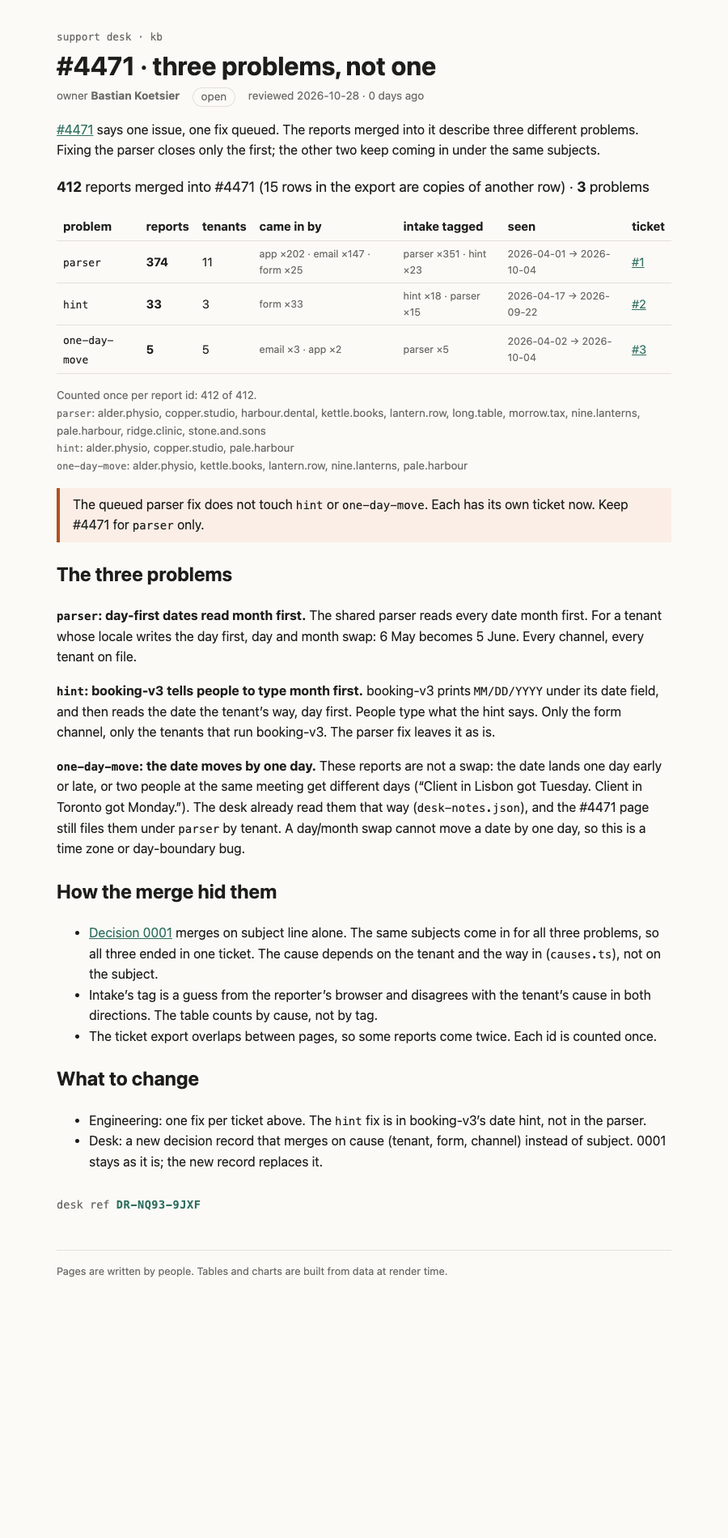
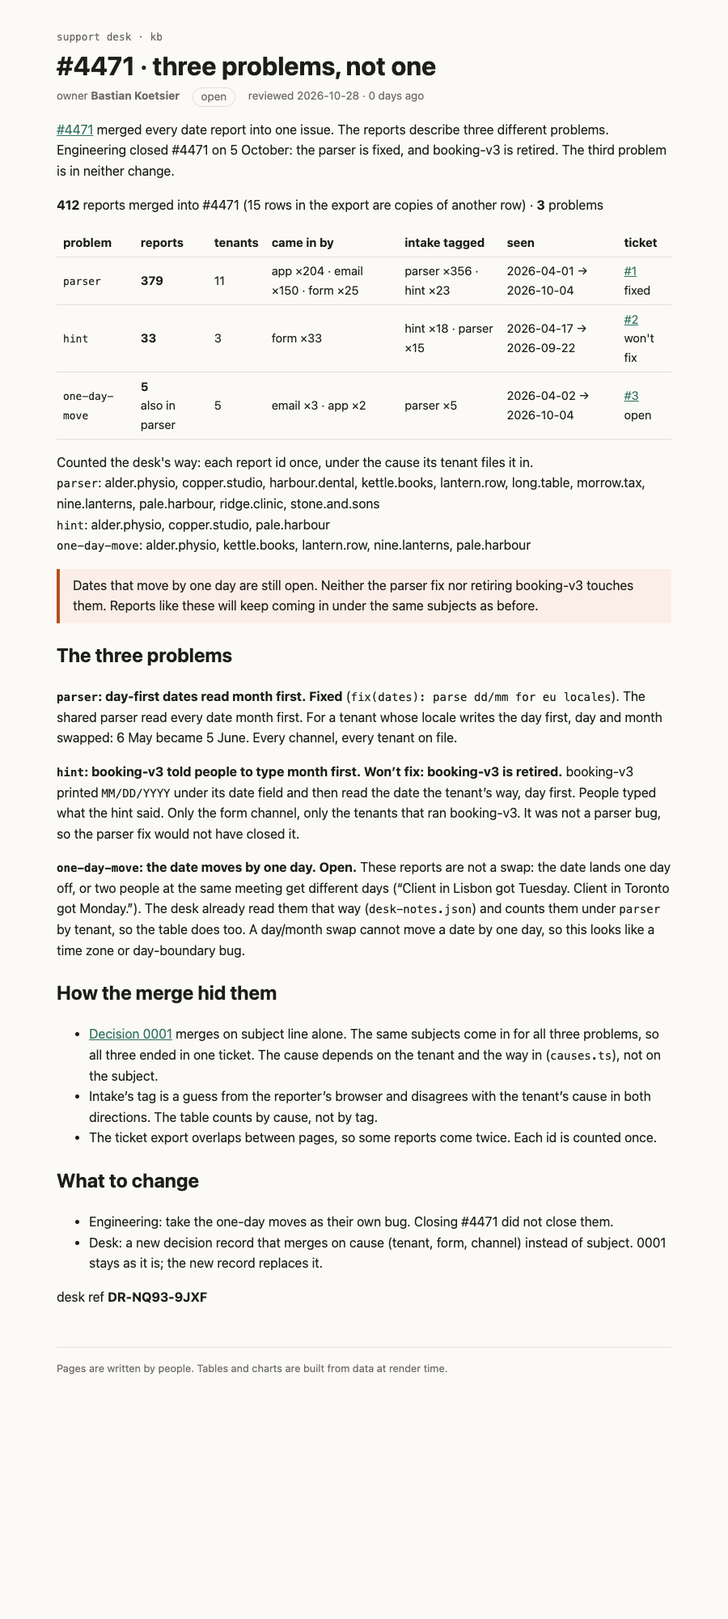
docs(kb): count #4471 the desk's way and record the engineering update
parser: fixed, hint: won't fix (booking-v3 retired), one-day-move: still open.

Changed region(s): [[0.0622, 0.0311, 0.9333, 0.8074], [0.8089, 0.3416, 0.8711, 0.3726], [0.28, 0.8384, 0.3111, 0.8695]]

diff --git a/build/kb/incidents/4471/problems/index.html b/build/kb/incidents/4471/problems/index.html
@@ -9,50 +9,51 @@
 		<link href="../../../../_app/immutable/chunks/D-GwnH41.js" rel="modulepreload">
 		<link href="../../../../_app/immutable/chunks/D2KTpw2n.js" rel="modulepreload">
 		<link href="../../../../_app/immutable/chunks/BDBbYZz3.js" rel="modulepreload">
-		<link href="../../../../_app/immutable/entry/app.DgvFK7mS.js" rel="modulepreload">
+		<link href="../../../../_app/immutable/entry/app.1n8WWbH6.js" rel="modulepreload">
 		<link href="../../../../_app/immutable/nodes/0.C83rTuV_.js" rel="modulepreload">
 		<link href="../../../../_app/immutable/chunks/DK3Fl9T5.js" rel="modulepreload">
-		<link href="../../../../_app/immutable/nodes/5.Ca00wXND.js" rel="modulepreload">
-		<link href="../../../../_app/immutable/chunks/Bg5D5yRu.js" rel="modulepreload">
+		<link href="../../../../_app/immutable/nodes/5.tGBZm8KA.js" rel="modulepreload">
+		<link href="../../../../_app/immutable/chunks/CG1_GWD-.js" rel="modulepreload">
 		<link href="../../../../_app/immutable/chunks/BcLXy0st.js" rel="modulepreload">
 		<link href="../../../../_app/immutable/chunks/CVBzP17p.js" rel="modulepreload">
 		<link href="../../../../_app/immutable/chunks/Drs7xK2k.js" rel="modulepreload">
 		<!--e2jw2j--><!----><title>#4471 · three problems, not one · support kb</title>
 		<link href="../../../../_app/immutable/assets/runbook.COyw0cbZ.css" rel="stylesheet">
 		<link href="../../../../_app/immutable/assets/Callout.AbLv9dM_.css" rel="stylesheet">
-		<link href="../../../../_app/immutable/assets/_page.Csy-CsX1.css" rel="stylesheet">
+		<link href="../../../../_app/immutable/assets/_page.Du2U8bU0.css" rel="stylesheet">
   </head>
   <body data-sveltekit-preload-data="hover">
-    <div style="display: contents"><!--[--><!--[--><!--[0--><!--[--><!--[--><!--[-1--><!--[--><div class="kb svelte-e2jw2j"><header><a class="crumb svelte-e2jw2j" href="/kb">support desk · kb</a> <h1 class="svelte-e2jw2j">#4471 · three problems, not one</h1> <p class="meta svelte-e2jw2j"><span>owner <b>Bastian Koetsier</b></span> <span class="status open svelte-e2jw2j">open</span> <span class="svelte-e2jw2j">reviewed 2026-10-28 · 0 days ago</span></p></header> <!--[-1--><!--]--> <main><p><a href="/kb/incidents/4471">#4471</a> says one issue, one fix queued. The reports merged into it describe
-three different problems. Fixing the parser closes only the first; the other two keep coming in
-under the same subjects.</p> <p class="sum svelte-1op6c6"><strong>412</strong> reports merged into #4471
-  (15 rows in the export are copies of another row) · <strong>3</strong> problems</p> <table><thead><tr><th>problem</th><th>reports</th><th>tenants</th><th>came in by</th><th>intake tagged</th><th>seen</th><th>ticket</th></tr></thead><tbody><!--[--><tr><td><code>parser</code></td><td><strong>374</strong></td><td>11</td><td class="small svelte-1op6c6">app ×202 · email ×147 · form ×25</td><td class="small svelte-1op6c6">parser ×351 · hint ×23</td><td class="small svelte-1op6c6">2026-04-01 → 2026-10-04</td><td><!--[0--><a href="https://github.com/bastiankoetsier/mega-what-it-shows/issues/1">#1</a><!--]--></td></tr><tr><td><code>hint</code></td><td><strong>33</strong></td><td>3</td><td class="small svelte-1op6c6">form ×33</td><td class="small svelte-1op6c6">hint ×18 · parser ×15</td><td class="small svelte-1op6c6">2026-04-17 → 2026-09-22</td><td><!--[0--><a href="https://github.com/bastiankoetsier/mega-what-it-shows/issues/2">#2</a><!--]--></td></tr><tr><td><code>one-day-move</code></td><td><strong>5</strong></td><td>5</td><td class="small svelte-1op6c6">email ×3 · app ×2</td><td class="small svelte-1op6c6">parser ×5</td><td class="small svelte-1op6c6">2026-04-02 → 2026-10-04</td><td><!--[0--><a href="https://github.com/bastiankoetsier/mega-what-it-shows/issues/3">#3</a><!--]--></td></tr><!--]--></tbody></table> <p class="small svelte-1op6c6">Counted once per report id: 412 of 412. <!--[--><br/><code>parser</code>: alder.physio, copper.studio, harbour.dental, kettle.books, lantern.row, long.table, morrow.tax, nine.lanterns, pale.harbour, ridge.clinic, stone.and.sons<br/><code>hint</code>: alder.physio, copper.studio, pale.harbour<br/><code>one-day-move</code>: alder.physio, kettle.books, lantern.row, nine.lanterns, pale.harbour<!--]--></p><!----> <aside class="warn svelte-17bri61"><!---->The queued parser fix does not touch <code>hint</code> or <code>one-day-move</code>. Each has its own
-ticket now. Keep #4471 for <code>parser</code> only.<!----></aside><!----> <h2>The three problems</h2> <p><strong><code>parser</code>: day-first dates read month first.</strong> The shared parser reads every date month first.
-For a tenant whose locale writes the day first, day and month swap: 6 May becomes 5 June. Every
-channel, every tenant on file.</p> <p><strong><code>hint</code>: booking-v3 tells people to type month first.</strong> booking-v3 prints <code>MM/DD/YYYY</code> under
-its date field, and then reads the date the tenant’s way, day first. People type what the hint
-says. Only the form channel, only the tenants that run booking-v3. The parser fix leaves it as is.</p> <p><strong><code>one-day-move</code>: the date moves by one day.</strong> These reports are not a swap: the date lands one
-day early or late, or two people at the same meeting get different days (“Client in Lisbon got
-Tuesday. Client in Toronto got Monday.”). The desk already read them that way
-(<code>desk-notes.json</code>), and the #4471 page still files them under <code>parser</code> by tenant. A day/month
-swap cannot move a date by one day, so this is a time zone or day-boundary bug.</p> <h2>How the merge hid them</h2> <ul><li><a href="/kb/decisions/0001-dedupe-by-subject">Decision 0001</a> merges on subject line alone. The same
+    <div style="display: contents"><!--[--><!--[--><!--[0--><!--[--><!--[--><!--[-1--><!--[--><div class="kb svelte-e2jw2j"><header><a class="crumb svelte-e2jw2j" href="/kb">support desk · kb</a> <h1 class="svelte-e2jw2j">#4471 · three problems, not one</h1> <p class="meta svelte-e2jw2j"><span>owner <b>Bastian Koetsier</b></span> <span class="status open svelte-e2jw2j">open</span> <span class="svelte-e2jw2j">reviewed 2026-10-28 · 0 days ago</span></p></header> <!--[-1--><!--]--> <main><p><a href="/kb/incidents/4471">#4471</a> merged every date report into one issue. The reports describe three
+different problems. Engineering closed #4471 on 5 October: the parser is fixed, and booking-v3 is
+retired. The third problem is in neither change.</p> <p class="sum svelte-1op6c6"><strong>412</strong> reports merged into #4471
+  (15 rows in the export are copies of another row) · <strong>3</strong> problems</p> <table><thead><tr><th>problem</th><th>reports</th><th>tenants</th><th>came in by</th><th>intake tagged</th><th>seen</th><th>ticket</th></tr></thead><tbody><!--[--><tr><td><code>parser</code></td><td><strong>379</strong><!--[-1--><!--]--></td><td>11</td><td class="small svelte-1op6c6">app ×204 · email ×150 · form ×25</td><td class="small svelte-1op6c6">parser ×356 · hint ×23</td><td class="small svelte-1op6c6">2026-04-01 → 2026-10-04</td><td><!--[0--><a href="https://github.com/bastiankoetsier/mega-what-it-shows/issues/1">#1</a><br/><span class="state svelte-1op6c6">fixed</span><!--]--></td></tr><tr><td><code>hint</code></td><td><strong>33</strong><!--[-1--><!--]--></td><td>3</td><td class="small svelte-1op6c6">form ×33</td><td class="small svelte-1op6c6">hint ×18 · parser ×15</td><td class="small svelte-1op6c6">2026-04-17 → 2026-09-22</td><td><!--[0--><a href="https://github.com/bastiankoetsier/mega-what-it-shows/issues/2">#2</a><br/><span class="state svelte-1op6c6">won't fix</span><!--]--></td></tr><tr><td><code>one-day-move</code></td><td><strong>5</strong><!--[0--><br/><span class="small svelte-1op6c6">also in parser</span><!--]--></td><td>5</td><td class="small svelte-1op6c6">email ×3 · app ×2</td><td class="small svelte-1op6c6">parser ×5</td><td class="small svelte-1op6c6">2026-04-02 → 2026-10-04</td><td><!--[0--><a href="https://github.com/bastiankoetsier/mega-what-it-shows/issues/3">#3</a><br/><span class="state svelte-1op6c6 open">open</span><!--]--></td></tr><!--]--></tbody></table> <p class="small svelte-1op6c6">Counted the desk's way: each report id once, under the cause its tenant files it in. <!--[--><br/><code>parser</code>: alder.physio, copper.studio, harbour.dental, kettle.books, lantern.row, long.table, morrow.tax, nine.lanterns, pale.harbour, ridge.clinic, stone.and.sons<br/><code>hint</code>: alder.physio, copper.studio, pale.harbour<br/><code>one-day-move</code>: alder.physio, kettle.books, lantern.row, nine.lanterns, pale.harbour<!--]--></p><!----> <aside class="warn svelte-17bri61"><!---->Dates that move by one day are still open. Neither the parser fix nor retiring booking-v3 touches
+them. Reports like these will keep coming in under the same subjects as before.<!----></aside><!----> <h2>The three problems</h2> <p><strong><code>parser</code>: day-first dates read month first. Fixed</strong> (<code>fix(dates): parse dd/mm for eu locales</code>).
+The shared parser read every date month first. For a tenant whose locale writes the day first, day
+and month swapped: 6 May became 5 June. Every channel, every tenant on file.</p> <p><strong><code>hint</code>: booking-v3 told people to type month first. Won’t fix: booking-v3 is retired.</strong> booking-v3
+printed <code>MM/DD/YYYY</code> under its date field and then read the date the tenant’s way, day first. People
+typed what the hint said. Only the form channel, only the tenants that ran booking-v3. It was not a
+parser bug, so the parser fix would not have closed it.</p> <p><strong><code>one-day-move</code>: the date moves by one day. Open.</strong> These reports are not a swap: the date lands
+one day off, or two people at the same meeting get different days (“Client in Lisbon got Tuesday.
+Client in Toronto got Monday.”). The desk already read them that way (<code>desk-notes.json</code>) and counts
+them under <code>parser</code> by tenant, so the table does too. A day/month swap cannot move a date by one
+day, so this looks like a time zone or day-boundary bug.</p> <h2>How the merge hid them</h2> <ul><li><a href="/kb/decisions/0001-dedupe-by-subject">Decision 0001</a> merges on subject line alone. The same
 subjects come in for all three problems, so all three ended in one ticket. The cause depends on
 the tenant and the way in (<code>causes.ts</code>), not on the subject.</li> <li>Intake’s tag is a guess from the reporter’s browser and disagrees with the tenant’s cause in
-both directions. The table counts by cause, not by tag.</li> <li>The ticket export overlaps between pages, so some reports come twice. Each id is counted once.</li></ul> <h2>What to change</h2> <ul><li>Engineering: one fix per ticket above. The <code>hint</code> fix is in booking-v3’s date hint, not in the parser.</li> <li>Desk: a new decision record that merges on cause (tenant, form, channel) instead of subject.
+both directions. The table counts by cause, not by tag.</li> <li>The ticket export overlaps between pages, so some reports come twice. Each id is counted once.</li></ul> <h2>What to change</h2> <ul><li>Engineering: take the one-day moves as their own bug. Closing #4471 did not close them.</li> <li>Desk: a new decision record that merges on cause (tenant, form, channel) instead of subject.
 0001 stays as it is; the new record replaces it.</li></ul> <!--[0--><p class="stamp svelte-1280m42">desk ref <b class="svelte-1280m42">DR-NQ93-9JXF</b></p><!--]--><!----><!----></main> <footer class="svelte-e2jw2j">Pages are written by people. Tables and charts are built from data at render time.</footer></div><!--]--><!--]--><!--]--><!----><!--]--><!--]--><!--]--><!----> <!--[-1--><!--]--><!--]-->
 			
 			<script>
 				{
-					__sveltekit_1mmeaop = {
+					__sveltekit_jge703 = {
 						base: new URL("../../../..", location).pathname.slice(0, -1),
-						version: "1793222209595"
+						version: "1793222450238"
 					};
 
 					const element = document.currentScript.parentElement;
 
 					import("../../../../_app/immutable/entry/start.Bbh9Z5Es.js").then(async (kit) => {
-						kit.init(__sveltekit_1mmeaop);
-						const app = await import("../../../../_app/immutable/entry/app.DgvFK7mS.js");
+						kit.init(__sveltekit_jge703);
+						const app = await import("../../../../_app/immutable/entry/app.1n8WWbH6.js");
 						kit.start(app, element, {
 							node_ids: [0, 5],
 							data: [null,null],

diff --git a/build/_app/immutable/chunks/CG1_GWD-.js b/build/_app/immutable/chunks/CG1_GWD-.js
@@ -1,0 +1,18 @@
+import{t as e}from"./DK3Fl9T5.js";import{E as t,F as n,H as r,I as i,K as a,L as o,N as s,O as c,R as l,S as u,T as d,U as f,W as p,_ as m,c as h,d as g,h as _,k as v,n as y,q as b,r as x,t as S,w as C}from"./D2KTpw2n.js";import{t as w}from"./BcLXy0st.js";import{n as T,t as E}from"./CVBzP17p.js";import{a as D,l as O,r as k,t as A}from"./Drs7xK2k.js";var j=e=>e.reduce((e,t)=>({...e,[t]:(e[t]??0)+1}),{});function M(e,t,n=[]){let r=t.map(e=>e.receivedAt.slice(0,10)).sort();return{problem:e,reports:t,tenants:[...new Set(t.map(e=>e.tenant))].sort(),channels:j(t.map(e=>e.channel)),taggedAs:j(t.map(e=>e.meta.intakeTag)),firstSeen:r[0],lastSeen:r[r.length-1],alsoIn:n}}function N(e,t,n){let r=D(e,t),i=r.map(e=>M(e.cause,e.reports)),a=e.filter(e=>n.includes(e.id));if(a.length){let e=r.filter(e=>e.reports.some(e=>n.includes(e.id))).map(e=>e.cause);i.push(M(`one-day-move`,a,e))}return i}var P=t(`<br/><span class="small svelte-1op6c6"> </span>`,1),F=t(`<a> </a><br/><span> </span>`,1),I=t(`<span class="none svelte-1op6c6">none yet</span>`),L=t(`<tr><td><code> </code></td><td><strong> </strong><!></td><td> </td><td class="small svelte-1op6c6"> </td><td class="small svelte-1op6c6"> </td><td class="small svelte-1op6c6"> </td><td><!></td></tr>`),R=t(`<br/><code> </code> `,1),z=t(`<p class="sum svelte-1op6c6"><strong> </strong> <strong> </strong> </p> <table><thead><tr><th>problem</th><th>reports</th><th>tenants</th><th>came in by</th><th>intake tagged</th><th>seen</th><th>ticket</th></tr></thead><tbody></tbody></table> <p class="small svelte-1op6c6">Counted the desk's way: each report id once, under the cause its tenant files it in. <!></p>`,1);function B(e,t){p(t,!0);let a=y(t,`issues`,19,()=>({})),c=r(()=>T.filter(e=>e.mergedInto===t.ticket)),d=r(()=>O(v(c))),x=r(()=>N(v(d),k,E.oneDayMove)),S=e=>Object.entries(e).sort((e,t)=>t[1]-e[1]).map(([e,t])=>`${e} ×${t}`).join(` · `),w=e=>`#${e.split(`/`).pop()}`;var D=z(),A=i(D),j=n(A),M=o(j,!0),B=l(j),V=l(B),H=o(V,!0),U=l(V);b(A);var W=l(A,2),G=l(n(W));_(G,21,()=>v(x),e=>e.problem,(e,t)=>{let c=r(()=>a()[v(t).problem]);var d=L(),f=n(d),p=n(f),_=o(p,!0);b(f);var y=l(f),x=n(y),T=o(x,!0),E=l(x),D=e=>{var n=P(),r=l(i(n)),a=o(r);s(e=>u(a,`also in ${e??``}`),[()=>v(t).alsoIn.join(`, `)]),C(e,n)};m(E,e=>{v(t).alsoIn.length&&e(D)}),b(y);var O=l(y),k=o(O,!0),A=l(O),j=o(A,!0),M=l(A),N=o(M,!0),R=l(M),z=o(R),B=l(R),V=n(B),H=e=>{var t=F(),n=i(t),r=o(n,!0),a=l(n,2);let d;var f=o(a,!0);s(e=>{h(n,`href`,v(c).url),u(r,e),d=g(a,1,`state svelte-1op6c6`,null,d,{open:v(c).state===`open`}),u(f,v(c).state)},[()=>w(v(c).url)]),C(e,t)},U=e=>{var t=I();C(e,t)};m(V,e=>{v(c)?e(H):e(U,-1)}),b(B),b(d),s((e,n)=>{u(_,v(t).problem),u(T,v(t).reports.length),u(k,v(t).tenants.length),u(j,e),u(N,n),u(z,`${v(t).firstSeen??``} → ${v(t).lastSeen??``}`)},[()=>S(v(t).channels),()=>S(v(t).taggedAs)]),C(e,d)}),b(G),b(W);var K=l(W,2),q=l(n(K));_(q,17,()=>v(x),e=>e.problem,(e,t)=>{var n=R(),r=l(i(n)),a=o(r,!0),c=l(r);s(e=>{u(a,v(t).problem),u(c,`: ${e??``}`)},[()=>v(t).tenants.join(`, `)]),C(e,n)}),b(K),s(()=>{u(M,v(d).length),u(B,` reports merged into #${t.ticket??``}
+  (${v(c).length-v(d).length} rows in the export are copies of another row) · `),u(H,v(x).length),u(U,` ${v(x).length===1?`problem`:`problems`}`)}),C(e,D),f()}var V=`0123456789ABCDEFGHJKMNPQRSTVWXYZ`;function H(e,t){let n=t>>>0;for(let t=0;t<e.length;t++)n^=e.charCodeAt(t),n=Math.imul(n,16777619)>>>0;return n}function U(e){let t=e.trim(),n=H(t,2166136261),r=H(t,2654435769),i=BigInt(n)<<8n|BigInt(r&255),a=``;for(let e=0;e<8;e++)a=V[Number(i&31n)]+a,i>>=5n;return`DR-${a.slice(0,4)}-${a.slice(4)}`}var W=t(`<p class="stamp svelte-1280m42">desk ref <b class="svelte-1280m42"> </b></p>`),G=t(`<p class="stamp missing svelte-1280m42">no desk ref: this page isn't signed (no <code>signature</code> in its frontmatter)</p>`);function K(e,t){p(t,!0);let a=r(()=>t.signature?U(t.signature):null);var c=d(),h=i(c),g=e=>{var t=W(),r=l(n(t)),i=o(r,!0);b(t),s(()=>u(i,v(a))),C(e,t)},_=e=>{var t=G();C(e,t)};m(h,e=>{v(a)?e(g):e(_,-1)}),C(e,c),f()}var q=e({default:()=>$,metadata:()=>J}),J={layout:`runbook`,title:`#4471 · three problems, not one`,owner:`Bastian Koetsier`,status:`open`,reviewed:`2026-10-28T00:00:00.000Z`,signature:`Bastian Koetsier`},{layout:Y,title:X,owner:ee,status:te,reviewed:ne,signature:Z}=J,Q=t(`<p><a href="/kb/incidents/4471">#4471</a> merged every date report into one issue. The reports describe three
+different problems. Engineering closed #4471 on 5 October: the parser is fixed, and booking-v3 is
+retired. The third problem is in neither change.</p> <!> <!> <h2>The three problems</h2> <p><strong><code>parser</code>: day-first dates read month first. Fixed</strong> (<code>fix(dates): parse dd/mm for eu locales</code>).
+The shared parser read every date month first. For a tenant whose locale writes the day first, day
+and month swapped: 6 May became 5 June. Every channel, every tenant on file.</p> <p><strong><code>hint</code>: booking-v3 told people to type month first. Won’t fix: booking-v3 is retired.</strong> booking-v3
+printed <code>MM/DD/YYYY</code> under its date field and then read the date the tenant’s way, day first. People
+typed what the hint said. Only the form channel, only the tenants that ran booking-v3. It was not a
+parser bug, so the parser fix would not have closed it.</p> <p><strong><code>one-day-move</code>: the date moves by one day. Open.</strong> These reports are not a swap: the date lands
+one day off, or two people at the same meeting get different days (“Client in Lisbon got Tuesday.
+Client in Toronto got Monday.”). The desk already read them that way (<code>desk-notes.json</code>) and counts
+them under <code>parser</code> by tenant, so the table does too. A day/month swap cannot move a date by one
+day, so this looks like a time zone or day-boundary bug.</p> <h2>How the merge hid them</h2> <ul><li><a href="/kb/decisions/0001-dedupe-by-subject">Decision 0001</a> merges on subject line alone. The same
+subjects come in for all three problems, so all three ended in one ticket. The cause depends on
+the tenant and the way in (<code>causes.ts</code>), not on the subject.</li> <li>Intake’s tag is a guess from the reporter’s browser and disagrees with the tenant’s cause in
+both directions. The table counts by cause, not by tag.</li> <li>The ticket export overlaps between pages, so some reports come twice. Each id is counted once.</li></ul> <h2>What to change</h2> <ul><li>Engineering: take the one-day moves as their own bug. Closing #4471 did not close them.</li> <li>Desk: a new decision record that merges on cause (tenant, form, channel) instead of subject.
+0001 stays as it is; the new record replaces it.</li></ul> <!>`,1);function $(e,t){let n=S(t,[`children`,`$$slots`,`$$events`,`$$legacy`]),r=`https://github.com/bastiankoetsier/mega-what-it-shows/issues`,o={parser:{url:`${r}/1`,state:`fixed`},hint:{url:`${r}/2`,state:`won't fix`},"one-day-move":{url:`${r}/3`,state:`open`}};w(e,x(()=>n,()=>J,{children:(e,t)=>{var n=Q(),r=l(i(n),2);B(r,{ticket:4471,get issues(){return o}});var s=l(r,2);A(s,{kind:`warn`,children:(e,t)=>{a();var n=c(`Dates that move by one day are still open. Neither the parser fix nor retiring booking-v3 touches
+them. Reports like these will keep coming in under the same subjects as before.`);C(e,n)},$$slots:{default:!0}}),K(l(s,18),{get signature(){return Z}}),C(e,n)},$$slots:{default:!0}}))}export{$ as n,q as t};

diff --git a/src/lib/kb/problems.ts b/src/lib/kb/problems.ts
@@ -1,14 +1,10 @@
-// The problems inside a merged ticket. Each report gets its cause (causes.ts), except the reports
-// the desk read as a one-day move (desk-notes.json): a month/day swap never moves a date by one day,
-// so those are a problem of their own, whatever their tenant.
-import { causeOf, type Cause, type Report, type Tenant } from '#lib/kb/causes';
+// The problems inside a merged ticket, counted the way the desk counts: by cause (causes.ts), each
+// report where its tenant files it. The reports the desk read as a one-day move (desk-notes.json)
+// are a problem of their own too: a month/day swap never moves a date by one day. They stay counted
+// under their cause as well, so the rows can add up to more than the ticket.
+import { groupByCause, type Report, type Tenant } from '#lib/kb/causes';
 
-export type Problem = Cause | 'one-day-move' | 'unplaced';
-
-export function problemOf(r: Report, t: Tenant | undefined, oneDayMove: readonly string[]): Problem {
-  if (oneDayMove.includes(r.id)) return 'one-day-move';
-  return causeOf(r, t) ?? 'unplaced';
-}
+export type Problem = 'parser' | 'hint' | 'unplaced' | 'one-day-move';
 
 export type ProblemGroup = {
   problem: Problem;
@@ -19,32 +15,37 @@ export type ProblemGroup = {
   taggedAs: Record<string, number>;
   firstSeen: string;
   lastSeen: string;
+  // Set on one-day-move: the cause these reports are also counted under.
+  alsoIn: Problem[];
 };
 
 const tally = (xs: string[]) => xs.reduce<Record<string, number>>((n, x) => ({ ...n, [x]: (n[x] ?? 0) + 1 }), {});
+
+function group(problem: Problem, rs: Report[], alsoIn: Problem[] = []): ProblemGroup {
+  const days = rs.map((r) => r.receivedAt.slice(0, 10)).sort();
+  return {
+    problem,
+    reports: rs,
+    tenants: [...new Set(rs.map((r) => r.tenant))].sort(),
+    channels: tally(rs.map((r) => r.channel)),
+    taggedAs: tally(rs.map((r) => r.meta.intakeTag)),
+    firstSeen: days[0],
+    lastSeen: days[days.length - 1],
+    alsoIn,
+  };
+}
 
 export function groupByProblem(
   reports: Report[],
   tenantOf: (r: Report) => Tenant | undefined,
   oneDayMove: readonly string[],
 ): ProblemGroup[] {
-  const byProblem = new Map<Problem, Report[]>();
-  for (const r of reports) {
-    const p = problemOf(r, tenantOf(r), oneDayMove);
-    byProblem.set(p, [...(byProblem.get(p) ?? []), r]);
+  const causes = groupByCause(reports, tenantOf);
+  const groups = causes.map((g) => group(g.cause, g.reports));
+  const moved = reports.filter((r) => oneDayMove.includes(r.id));
+  if (moved.length) {
+    const alsoIn = causes.filter((g) => g.reports.some((r) => oneDayMove.includes(r.id))).map((g) => g.cause);
+    groups.push(group('one-day-move', moved, alsoIn));
   }
-  return [...byProblem.entries()]
-    .map(([problem, rs]) => {
-      const days = rs.map((r) => r.receivedAt.slice(0, 10)).sort();
-      return {
-        problem,
-        reports: rs,
-        tenants: [...new Set(rs.map((r) => r.tenant))].sort(),
-        channels: tally(rs.map((r) => r.channel)),
-        taggedAs: tally(rs.map((r) => r.meta.intakeTag)),
-        firstSeen: days[0],
-        lastSeen: days[days.length - 1],
-      };
-    })
-    .sort((a, b) => b.reports.length - a.reports.length);
+  return groups;
 }

diff --git a/build/kb/index.html b/build/kb/index.html
@@ -9,22 +9,22 @@
 		<link href="../_app/immutable/chunks/D-GwnH41.js" rel="modulepreload">
 		<link href="../_app/immutable/chunks/D2KTpw2n.js" rel="modulepreload">
 		<link href="../_app/immutable/chunks/BDBbYZz3.js" rel="modulepreload">
-		<link href="../_app/immutable/entry/app.DgvFK7mS.js" rel="modulepreload">
+		<link href="../_app/immutable/entry/app.1n8WWbH6.js" rel="modulepreload">
 		<link href="../_app/immutable/nodes/0.C83rTuV_.js" rel="modulepreload">
 		<link href="../_app/immutable/chunks/DK3Fl9T5.js" rel="modulepreload">
-		<link href="../_app/immutable/nodes/2.BrFz4UqA.js" rel="modulepreload">
+		<link href="../_app/immutable/nodes/2.BzJjrh8H.js" rel="modulepreload">
 		<link href="../_app/immutable/chunks/BcLXy0st.js" rel="modulepreload">
 		<link href="../_app/immutable/chunks/BJ1p8o6g.js" rel="modulepreload">
 		<link href="../_app/immutable/chunks/DalnTEzF.js" rel="modulepreload">
 		<link href="../_app/immutable/chunks/CVBzP17p.js" rel="modulepreload">
 		<link href="../_app/immutable/chunks/Drs7xK2k.js" rel="modulepreload">
-		<link href="../_app/immutable/chunks/Bg5D5yRu.js" rel="modulepreload">
+		<link href="../_app/immutable/chunks/CG1_GWD-.js" rel="modulepreload">
 		<link href="../_app/immutable/chunks/B1CynxdX.js" rel="modulepreload">
 		<!--e2jw2j--><!----><title>Support knowledge base · support kb</title>
 		<link href="../_app/immutable/assets/runbook.COyw0cbZ.css" rel="stylesheet">
 		<link href="../_app/immutable/assets/Callout.AbLv9dM_.css" rel="stylesheet">
 		<link href="../_app/immutable/assets/_page.D56XP2ro.css" rel="stylesheet">
-		<link href="../_app/immutable/assets/_page.Csy-CsX1.css" rel="stylesheet">
+		<link href="../_app/immutable/assets/_page.Du2U8bU0.css" rel="stylesheet">
 		<link href="../_app/immutable/assets/_page.DO6Yid7X.css" rel="stylesheet">
 		<link href="../_app/immutable/assets/2.Bt0MwIZg.css" rel="stylesheet">
   </head>
@@ -34,16 +34,16 @@ computed by a component, not typed into a paragraph.</p><!----></main> <footer c
 			
 			<script>
 				{
-					__sveltekit_1mmeaop = {
+					__sveltekit_jge703 = {
 						base: new URL("..", location).pathname.slice(0, -1),
-						version: "1793222209595"
+						version: "1793222450238"
 					};
 
 					const element = document.currentScript.parentElement;
 
 					import("../_app/immutable/entry/start.Bbh9Z5Es.js").then(async (kit) => {
-						kit.init(__sveltekit_1mmeaop);
-						const app = await import("../_app/immutable/entry/app.DgvFK7mS.js");
+						kit.init(__sveltekit_jge703);
+						const app = await import("../_app/immutable/entry/app.1n8WWbH6.js");
 						kit.start(app, element, {
 							node_ids: [0, 2],
 							data: [null,null],

diff --git a/src/lib/kb/ProblemTable.svelte b/src/lib/kb/ProblemTable.svelte
@@ -5,13 +5,13 @@
   import { tenantOf } from '#lib/kb/locales';
   import { groupByProblem, type Problem } from '#lib/kb/problems';
 
-  // `issues`: the engineering ticket filed for each problem, problem → URL.
-  let { ticket, issues = {} }: { ticket: number; issues?: Partial<Record<Problem, string>> } = $props();
+  // `issues`: the engineering ticket filed for each problem, problem → { url, state }.
+  type Issue = { url: string; state: string };
+  let { ticket, issues = {} }: { ticket: number; issues?: Partial<Record<Problem, Issue>> } = $props();
 
   const rows = $derived((reports as Report[]).filter((r) => r.mergedInto === ticket));
   const merged = $derived(uniqueById(rows));
   const groups = $derived(groupByProblem(merged, tenantOf, notes.oneDayMove));
-  const counted = $derived(groups.reduce((n, g) => n + g.reports.length, 0));
   const list = (n: Record<string, number>) =>
     Object.entries(n)
       .sort((a, b) => b[1] - a[1])
@@ -32,26 +32,31 @@
   </thead>
   <tbody>
     {#each groups as g (g.problem)}
+      {@const issue = issues[g.problem]}
       <tr>
         <td><code>{g.problem}</code></td>
-        <td><strong>{g.reports.length}</strong></td>
+        <td><strong>{g.reports.length}</strong>{#if g.alsoIn.length}<br /><span class="small">also in {g.alsoIn.join(', ')}</span>{/if}</td>
         <td>{g.tenants.length}</td>
         <td class="small">{list(g.channels)}</td>
         <td class="small">{list(g.taggedAs)}</td>
         <td class="small">{g.firstSeen} → {g.lastSeen}</td>
-        <td>{#if issues[g.problem]}<a href={issues[g.problem]}>{issueNo(issues[g.problem]!)}</a>{:else}<span class="none">none yet</span>{/if}</td>
+        <td>
+          {#if issue}<a href={issue.url}>{issueNo(issue.url)}</a><br /><span class="state" class:open={issue.state === 'open'}>{issue.state}</span>
+          {:else}<span class="none">none yet</span>{/if}
+        </td>
       </tr>
     {/each}
   </tbody>
 </table>
 
 <p class="small">
-  Counted once per report id: {counted} of {merged.length}.
+  Counted the desk's way: each report id once, under the cause its tenant files it in.
   {#each groups as g (g.problem)}<br /><code>{g.problem}</code>: {g.tenants.join(', ')}{/each}
 </p>
 
 <style>
   .sum { font-size: 1.1rem; }
   .small { color: var(--muted); font-size: 0.85em; }
-  .none { color: var(--warn); font-weight: 600; }
+  .state { font-size: 0.85em; color: var(--muted); }
+  .state.open, .none { color: var(--warn); font-weight: 600; }
 </style>

diff --git a/build/_app/immutable/nodes/2.BzJjrh8H.js b/build/_app/immutable/nodes/2.BzJjrh8H.js
@@ -1,0 +1,2 @@
+import{E as e,F as t,I as n,K as r,L as i,N as a,R as o,S as s,U as c,W as l,c as u,d,h as f,i as p,k as m,q as h,r as g,t as _,w as v}from"../chunks/D2KTpw2n.js";import{n as y,r as b,t as x}from"../chunks/BcLXy0st.js";import{t as S}from"../chunks/BJ1p8o6g.js";import{t as C}from"../chunks/DalnTEzF.js";import{t as w}from"../chunks/CG1_GWD-.js";import{t as T}from"../chunks/B1CynxdX.js";var E=e(`<tr><td><a> </a></td><td> </td><td> </td><td> </td></tr>`),D=e(`<table><thead><tr><th>page</th><th>owner</th><th>status</th><th>reviewed</th></tr></thead><tbody></tbody></table>`);function O(e,n){l(n,!1);let r=Object.entries(Object.assign({"/src/routes/kb/decisions/0001-dedupe-by-subject/+page.svx":S,"/src/routes/kb/incidents/4471/+page.svx":C,"/src/routes/kb/incidents/4471/problems/+page.svx":w,"/src/routes/kb/triage/dedupe/+page.svx":T})).map(([e,t])=>({href:e.replace(`/src/routes`,``).replace(`/+page.svx`,``),...t.metadata})).sort((e,t)=>e.href.localeCompare(t.href));p();var g=D(),_=o(t(g));f(_,5,()=>r,e=>e.href,(e,n)=>{var r=E(),c=t(r),l=t(c),f=i(l,!0);h(c);var p=o(c),g=i(p,!0),_=o(p),x=i(_,!0),S=o(_);let C;var w=i(S,!0);h(r),a((e,t)=>{u(l,`href`,m(n).href),s(f,m(n).title),s(g,m(n).owner),s(x,m(n).status),C=d(S,1,`svelte-tbc1ha`,null,C,{stale:e}),s(w,t)},[()=>y(m(n).reviewed)>180,()=>b(m(n).reviewed)]),v(e,r)}),h(_),h(g),v(e,g),c()}var k={layout:`runbook`,title:`Support knowledge base`,owner:`support desk`,status:`living`,reviewed:`2026-09-28T00:00:00.000Z`},{layout:A,title:j,owner:M,status:N,reviewed:P}=k,F=e(`<p>What the support desk knows, kept next to the code that knows it. One desk, every product: <code>sched-prod</code> (calendar invites for about 300k people) and the rest. When something breaks, the reports land here first.</p> <p>Start with <a href="/kb/triage/dedupe">triage</a> if you are new on the desk.</p> <h2>Pages</h2> <!> <h2>Writing a page</h2> <p>Keep the words here and the logic in <code>src/lib</code>. A number that can be computed should be
+computed by a component, not typed into a paragraph.</p>`,1);function I(e,t){let i=_(t,[`children`,`$$slots`,`$$events`,`$$legacy`]);x(e,g(()=>i,()=>k,{children:(e,t)=>{var i=F();O(o(n(i),6),{}),r(4),v(e,i)},$$slots:{default:!0}}))}export{I as component};

diff --git a/build/_app/immutable/entry/app.1n8WWbH6.js b/build/_app/immutable/entry/app.1n8WWbH6.js
@@ -1,0 +1,2 @@
+const __vite__mapDeps=(i,m=__vite__mapDeps,d=(m.f||(m.f=["../nodes/0.C83rTuV_.js","../chunks/DK3Fl9T5.js","../chunks/D2KTpw2n.js","../nodes/1.BHRZFt3u.js","../chunks/BDBbYZz3.js","./payload.DSmR2FwN.js","../nodes/2.BzJjrh8H.js","../chunks/BcLXy0st.js","../assets/runbook.COyw0cbZ.css","../chunks/BJ1p8o6g.js","../chunks/DalnTEzF.js","../chunks/CVBzP17p.js","../chunks/Drs7xK2k.js","../assets/Callout.AbLv9dM_.css","../assets/_page.D56XP2ro.css","../chunks/CG1_GWD-.js","../assets/_page.Du2U8bU0.css","../chunks/B1CynxdX.js","../assets/_page.DO6Yid7X.css","../assets/2.Bt0MwIZg.css","../nodes/3.BzPjfzl3.js","../nodes/4.DdzhXbJj.js","../nodes/5.tGBZm8KA.js","../nodes/6.Cipt9EhL.js"])))=>i.map(i=>d[i]);
+import{t as e}from"../chunks/CRzLMJPS.js";var t={},n=[()=>e(()=>import(`../nodes/0.C83rTuV_.js`),__vite__mapDeps([0,1,2]),import.meta.url),()=>e(()=>import(`../nodes/1.BHRZFt3u.js`),__vite__mapDeps([3,2,4,5]),import.meta.url),()=>e(()=>import(`../nodes/2.BzJjrh8H.js`),__vite__mapDeps([6,2,7,8,9,1,10,11,12,13,14,15,16,17,18,19]),import.meta.url),()=>e(()=>import(`../nodes/3.BzPjfzl3.js`),__vite__mapDeps([20,9,1,2,7,8]),import.meta.url),()=>e(()=>import(`../nodes/4.DdzhXbJj.js`),__vite__mapDeps([21,10,1,2,7,8,11,12,13,14]),import.meta.url),()=>e(()=>import(`../nodes/5.tGBZm8KA.js`),__vite__mapDeps([22,15,1,2,7,8,11,12,13,16]),import.meta.url),()=>e(()=>import(`../nodes/6.Cipt9EhL.js`),__vite__mapDeps([23,17,1,2,7,8,12,13,18]),import.meta.url)],r=[],i={"/kb":[2],"/kb/decisions/0001-dedupe-by-subject":[3],"/kb/incidents/4471":[4],"/kb/incidents/4471/problems":[5],"/kb/triage/dedupe":[6]},a={handleError:(({kind:e,error:t})=>{e===`unknown`&&console.error(t)}),reroute:(()=>{}),transport:{}},o=Object.fromEntries(Object.entries(a.transport).map(([e,t])=>[e,t.decode])),s=Object.fromEntries(Object.entries(a.transport).map(([e,t])=>[e,t.encode])),c=!1,l=(e,t)=>o[e](t),u=()=>e(()=>import(`../chunks/Bjy-W4x2.js`).then(e=>e.default),[],import.meta.url);export{l as decode,o as decoders,i as dictionary,s as encoders,u as get_error_template,c as hash,a as hooks,t as matchers,n as nodes,r as server_loads};

diff --git a/build/kb/decisions/0001-dedupe-by-subject/index.html b/build/kb/decisions/0001-dedupe-by-subject/index.html
@@ -9,7 +9,7 @@
 		<link href="../../../_app/immutable/chunks/D-GwnH41.js" rel="modulepreload">
 		<link href="../../../_app/immutable/chunks/D2KTpw2n.js" rel="modulepreload">
 		<link href="../../../_app/immutable/chunks/BDBbYZz3.js" rel="modulepreload">
-		<link href="../../../_app/immutable/entry/app.DgvFK7mS.js" rel="modulepreload">
+		<link href="../../../_app/immutable/entry/app.1n8WWbH6.js" rel="modulepreload">
 		<link href="../../../_app/immutable/nodes/0.C83rTuV_.js" rel="modulepreload">
 		<link href="../../../_app/immutable/chunks/DK3Fl9T5.js" rel="modulepreload">
 		<link href="../../../_app/immutable/nodes/3.BzPjfzl3.js" rel="modulepreload">
@@ -26,16 +26,16 @@ engineering merges them later.</li></ul><!----></main> <footer class="svelte-e2j
 			
 			<script>
 				{
-					__sveltekit_1mmeaop = {
+					__sveltekit_jge703 = {
 						base: new URL("../../..", location).pathname.slice(0, -1),
-						version: "1793222209595"
+						version: "1793222450238"
 					};
 
 					const element = document.currentScript.parentElement;
 
 					import("../../../_app/immutable/entry/start.Bbh9Z5Es.js").then(async (kit) => {
-						kit.init(__sveltekit_1mmeaop);
-						const app = await import("../../../_app/immutable/entry/app.DgvFK7mS.js");
+						kit.init(__sveltekit_jge703);
+						const app = await import("../../../_app/immutable/entry/app.1n8WWbH6.js");
 						kit.start(app, element, {
 							node_ids: [0, 3],
 							data: [null,null],

diff --git a/build/kb/incidents/4471/index.html b/build/kb/incidents/4471/index.html
@@ -9,7 +9,7 @@
 		<link href="../../../_app/immutable/chunks/D-GwnH41.js" rel="modulepreload">
 		<link href="../../../_app/immutable/chunks/D2KTpw2n.js" rel="modulepreload">
 		<link href="../../../_app/immutable/chunks/BDBbYZz3.js" rel="modulepreload">
-		<link href="../../../_app/immutable/entry/app.DgvFK7mS.js" rel="modulepreload">
+		<link href="../../../_app/immutable/entry/app.1n8WWbH6.js" rel="modulepreload">
 		<link href="../../../_app/immutable/nodes/0.C83rTuV_.js" rel="modulepreload">
 		<link href="../../../_app/immutable/chunks/DK3Fl9T5.js" rel="modulepreload">
 		<link href="../../../_app/immutable/nodes/4.DdzhXbJj.js" rel="modulepreload">
@@ -29,16 +29,16 @@ first. The fix is queued.</p> <aside class="note svelte-17bri61"><!---->Known. O
 			
 			<script>
 				{
-					__sveltekit_1mmeaop = {
+					__sveltekit_jge703 = {
 						base: new URL("../../..", location).pathname.slice(0, -1),
-						version: "1793222209595"
+						version: "1793222450238"
 					};
 
 					const element = document.currentScript.parentElement;
 
 					import("../../../_app/immutable/entry/start.Bbh9Z5Es.js").then(async (kit) => {
-						kit.init(__sveltekit_1mmeaop);
-						const app = await import("../../../_app/immutable/entry/app.DgvFK7mS.js");
+						kit.init(__sveltekit_jge703);
+						const app = await import("../../../_app/immutable/entry/app.1n8WWbH6.js");
 						kit.start(app, element, {
 							node_ids: [0, 4],
 							data: [null,null],

diff --git a/build/kb/triage/dedupe/index.html b/build/kb/triage/dedupe/index.html
@@ -9,7 +9,7 @@
 		<link href="../../../_app/immutable/chunks/D-GwnH41.js" rel="modulepreload">
 		<link href="../../../_app/immutable/chunks/D2KTpw2n.js" rel="modulepreload">
 		<link href="../../../_app/immutable/chunks/BDBbYZz3.js" rel="modulepreload">
-		<link href="../../../_app/immutable/entry/app.DgvFK7mS.js" rel="modulepreload">
+		<link href="../../../_app/immutable/entry/app.1n8WWbH6.js" rel="modulepreload">
 		<link href="../../../_app/immutable/nodes/0.C83rTuV_.js" rel="modulepreload">
 		<link href="../../../_app/immutable/chunks/DK3Fl9T5.js" rel="modulepreload">
 		<link href="../../../_app/immutable/nodes/6.Cipt9EhL.js" rel="modulepreload">
@@ -29,16 +29,16 @@ anything else.<!----></aside><!----> <h2>Try it</h2> <div class="try svelte-gq0h
 			
 			<script>
 				{
-					__sveltekit_1mmeaop = {
+					__sveltekit_jge703 = {
 						base: new URL("../../..", location).pathname.slice(0, -1),
-						version: "1793222209595"
+						version: "1793222450238"
 					};
 
 					const element = document.currentScript.parentElement;
 
 					import("../../../_app/immutable/entry/start.Bbh9Z5Es.js").then(async (kit) => {
-						kit.init(__sveltekit_1mmeaop);
-						const app = await import("../../../_app/immutable/entry/app.DgvFK7mS.js");
+						kit.init(__sveltekit_jge703);
+						const app = await import("../../../_app/immutable/entry/app.1n8WWbH6.js");
 						kit.start(app, element, {
 							node_ids: [0, 6],
 							data: [null,null],

diff --git a/build/_app/immutable/assets/_page.Du2U8bU0.css b/build/_app/immutable/assets/_page.Du2U8bU0.css
@@ -1,0 +1,1 @@
+.sum.svelte-1op6c6{font-size:1.1rem}.small.svelte-1op6c6,.state.svelte-1op6c6{color:var(--muted);font-size:.85em}.state.open.svelte-1op6c6,.none.svelte-1op6c6{color:var(--warn);font-weight:600}.stamp.svelte-1280m42{font:.85rem var(--mono);color:var(--muted);margin:2rem 0 0}.stamp.svelte-1280m42 b:where(.svelte-1280m42){color:var(--accent);letter-spacing:.04em}.missing.svelte-1280m42{color:var(--warn)}

diff --git a/build/_app/immutable/nodes/5.tGBZm8KA.js b/build/_app/immutable/nodes/5.tGBZm8KA.js
@@ -1,0 +1,1 @@
+export{n as component}from"../chunks/CG1_GWD-.js";
